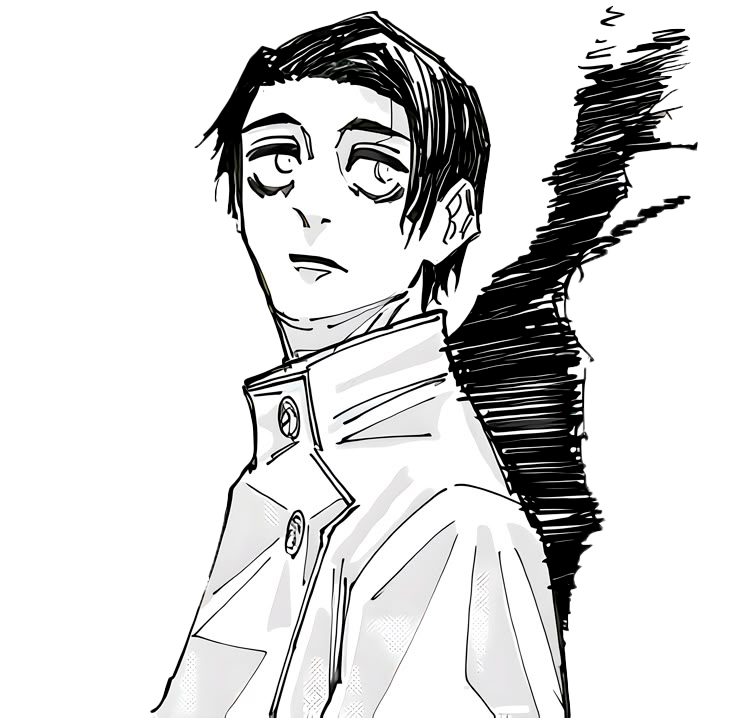
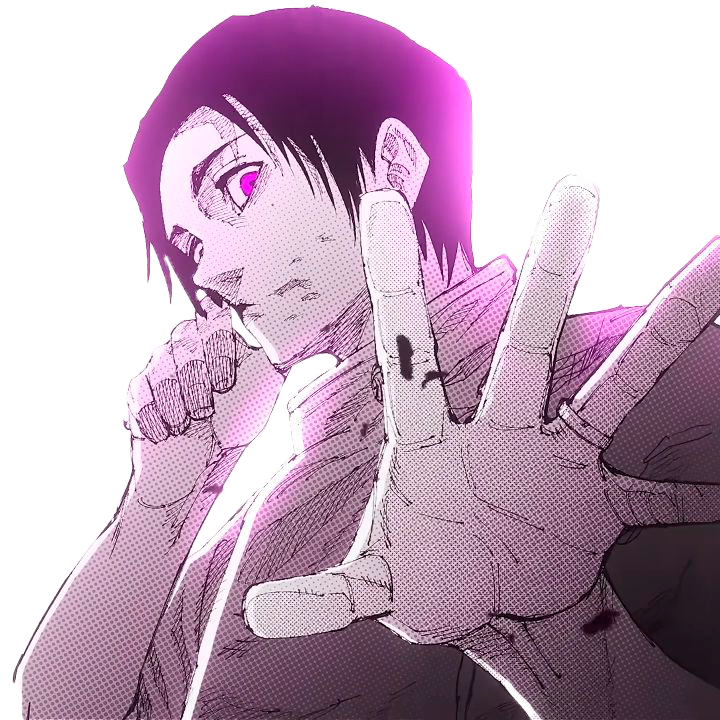
Обновлен компонент PlayerPod для улучшенного отображения портретов персонажей с добавлением всплывающих подсказок. Изменены стили для портретов, чтобы улучшить их позиционирование и взаимодействие. Обновлен портрет Юты Оккоцу.

diff --git a/frontend/src/components/PlayerPod.tsx b/frontend/src/components/PlayerPod.tsx
@@ -48,20 +48,19 @@ const PlayerPod: React.FC<PlayerPodProps> = ({ player, isCurrent, isTargetable, 
       onContextMenu={(event) => onSelect && isTargetable && player.status !== 'DEFEATED' && onSelect(player.id, event)}
     >
       {fullCharacterData && portraitSrc && (
-        <img src={portraitSrc} alt={fullCharacterData.name} className="player-portrait" />
+        <img 
+          src={portraitSrc} 
+          alt={fullCharacterData.name} 
+          className="player-portrait"
+          data-tooltip-id={`passive-tooltip-${player.id}`}
+          data-tooltip-html={`<strong>${fullCharacterData.passive_ability_name}</strong><br />${fullCharacterData.passive_ability_description}`}
+        />
       )}
+      {fullCharacterData && <Tooltip id={`passive-tooltip-${player.id}`} />}
+
       <div className="player-info">
         <span className="nickname">{player.nickname}</span>
         <span className="character-name">{player.character?.name}</span>
-        {player.character && (
-          <div className="passive-info tooltip-container">
-            <span className="info-icon">ℹ</span>
-            <div className="tooltip-content">
-              <strong>{player.character.passive_ability_name}</strong>
-              <p>{player.character.passive_ability_description}</p>
-            </div>
-          </div>
-        )}
       </div>
       <div className="status-bars">
         <div className="hp-bar">

diff --git a/frontend/src/styles/components.css b/frontend/src/styles/components.css
@@ -130,21 +130,28 @@
 
 .player-portrait {
     position: absolute;
-    width: 100%;
-    max-height: 150%;
-    left: 50%;
-    transform: translateX(-50%);
+    width: auto;
+    max-height: 160%;
+    right: -20px;
     bottom: 0;
     z-index: 0;
-    pointer-events: none;
+    pointer-events: all;
     filter: drop-shadow(0px -5px 8px rgba(0, 0, 0, 0.9));
     object-fit: contain;
     object-position: bottom;
 }
 
 .player-pod.self-player .player-portrait {
-    max-height: 160%;
-    bottom: -5px;
+    max-height: 175%;
+    right: -30px;
+}
+
+.nickname, .character-name {
+    text-shadow: 
+        -1px -1px 0 #000,  
+         1px -1px 0 #000,
+        -1px  1px 0 #000,
+         1px  1px 0 #000;
 }
 
 .player-pod.current-player {
